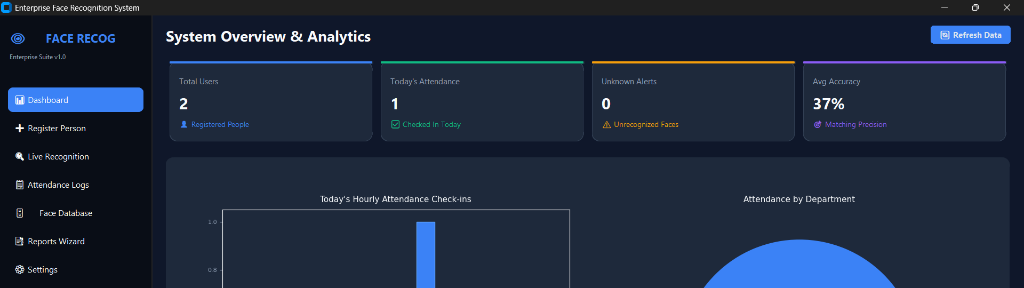
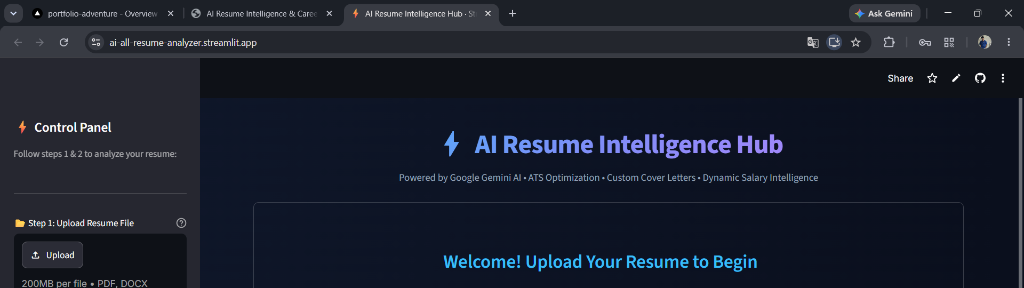
Fix project screenshot rendering: remove grayscale/dark filters and fit images cleanly

diff --git a/src/views/ProjectDetails/ProjectDetails.css b/src/views/ProjectDetails/ProjectDetails.css
@@ -114,21 +114,18 @@
 .pd-visual-image {
   width: 100%;
   height: auto;
-  max-height: 60vh;
+  max-height: 70vh;
   object-fit: contain;
   display: block;
 
-  /* 🎨 EFECTO PATENTE: Monocromático azul inicialmente */
-  filter: grayscale(1) contrast(1.3);
-  mix-blend-mode: luminosity;
-  opacity: 0.8;
-  transition: filter 0.4s ease, mix-blend-mode 0.4s ease, opacity 0.4s ease;
-}
-
-.pd-visual-frame:hover .pd-visual-image {
   filter: none;
   mix-blend-mode: normal;
   opacity: 1;
+  transition: transform 0.3s ease;
+}
+
+.pd-visual-frame:hover .pd-visual-image {
+  transform: scale(1.01);
 }
 
 /* =========================================================

diff --git a/src/components/ProjectCard/ProjectCard.css b/src/components/ProjectCard/ProjectCard.css
@@ -68,12 +68,13 @@
   inset: 0;
   width: 100%;
   height: 100%;
-  object-fit: cover;
+  object-fit: contain;
+  background: #0f172a;
 }
 
 .blueprint-card__img--sketch {
   z-index: 1;
-  opacity: 0.85;
+  opacity: 0.95;
 }
 
 .blueprint-card__reveal {
